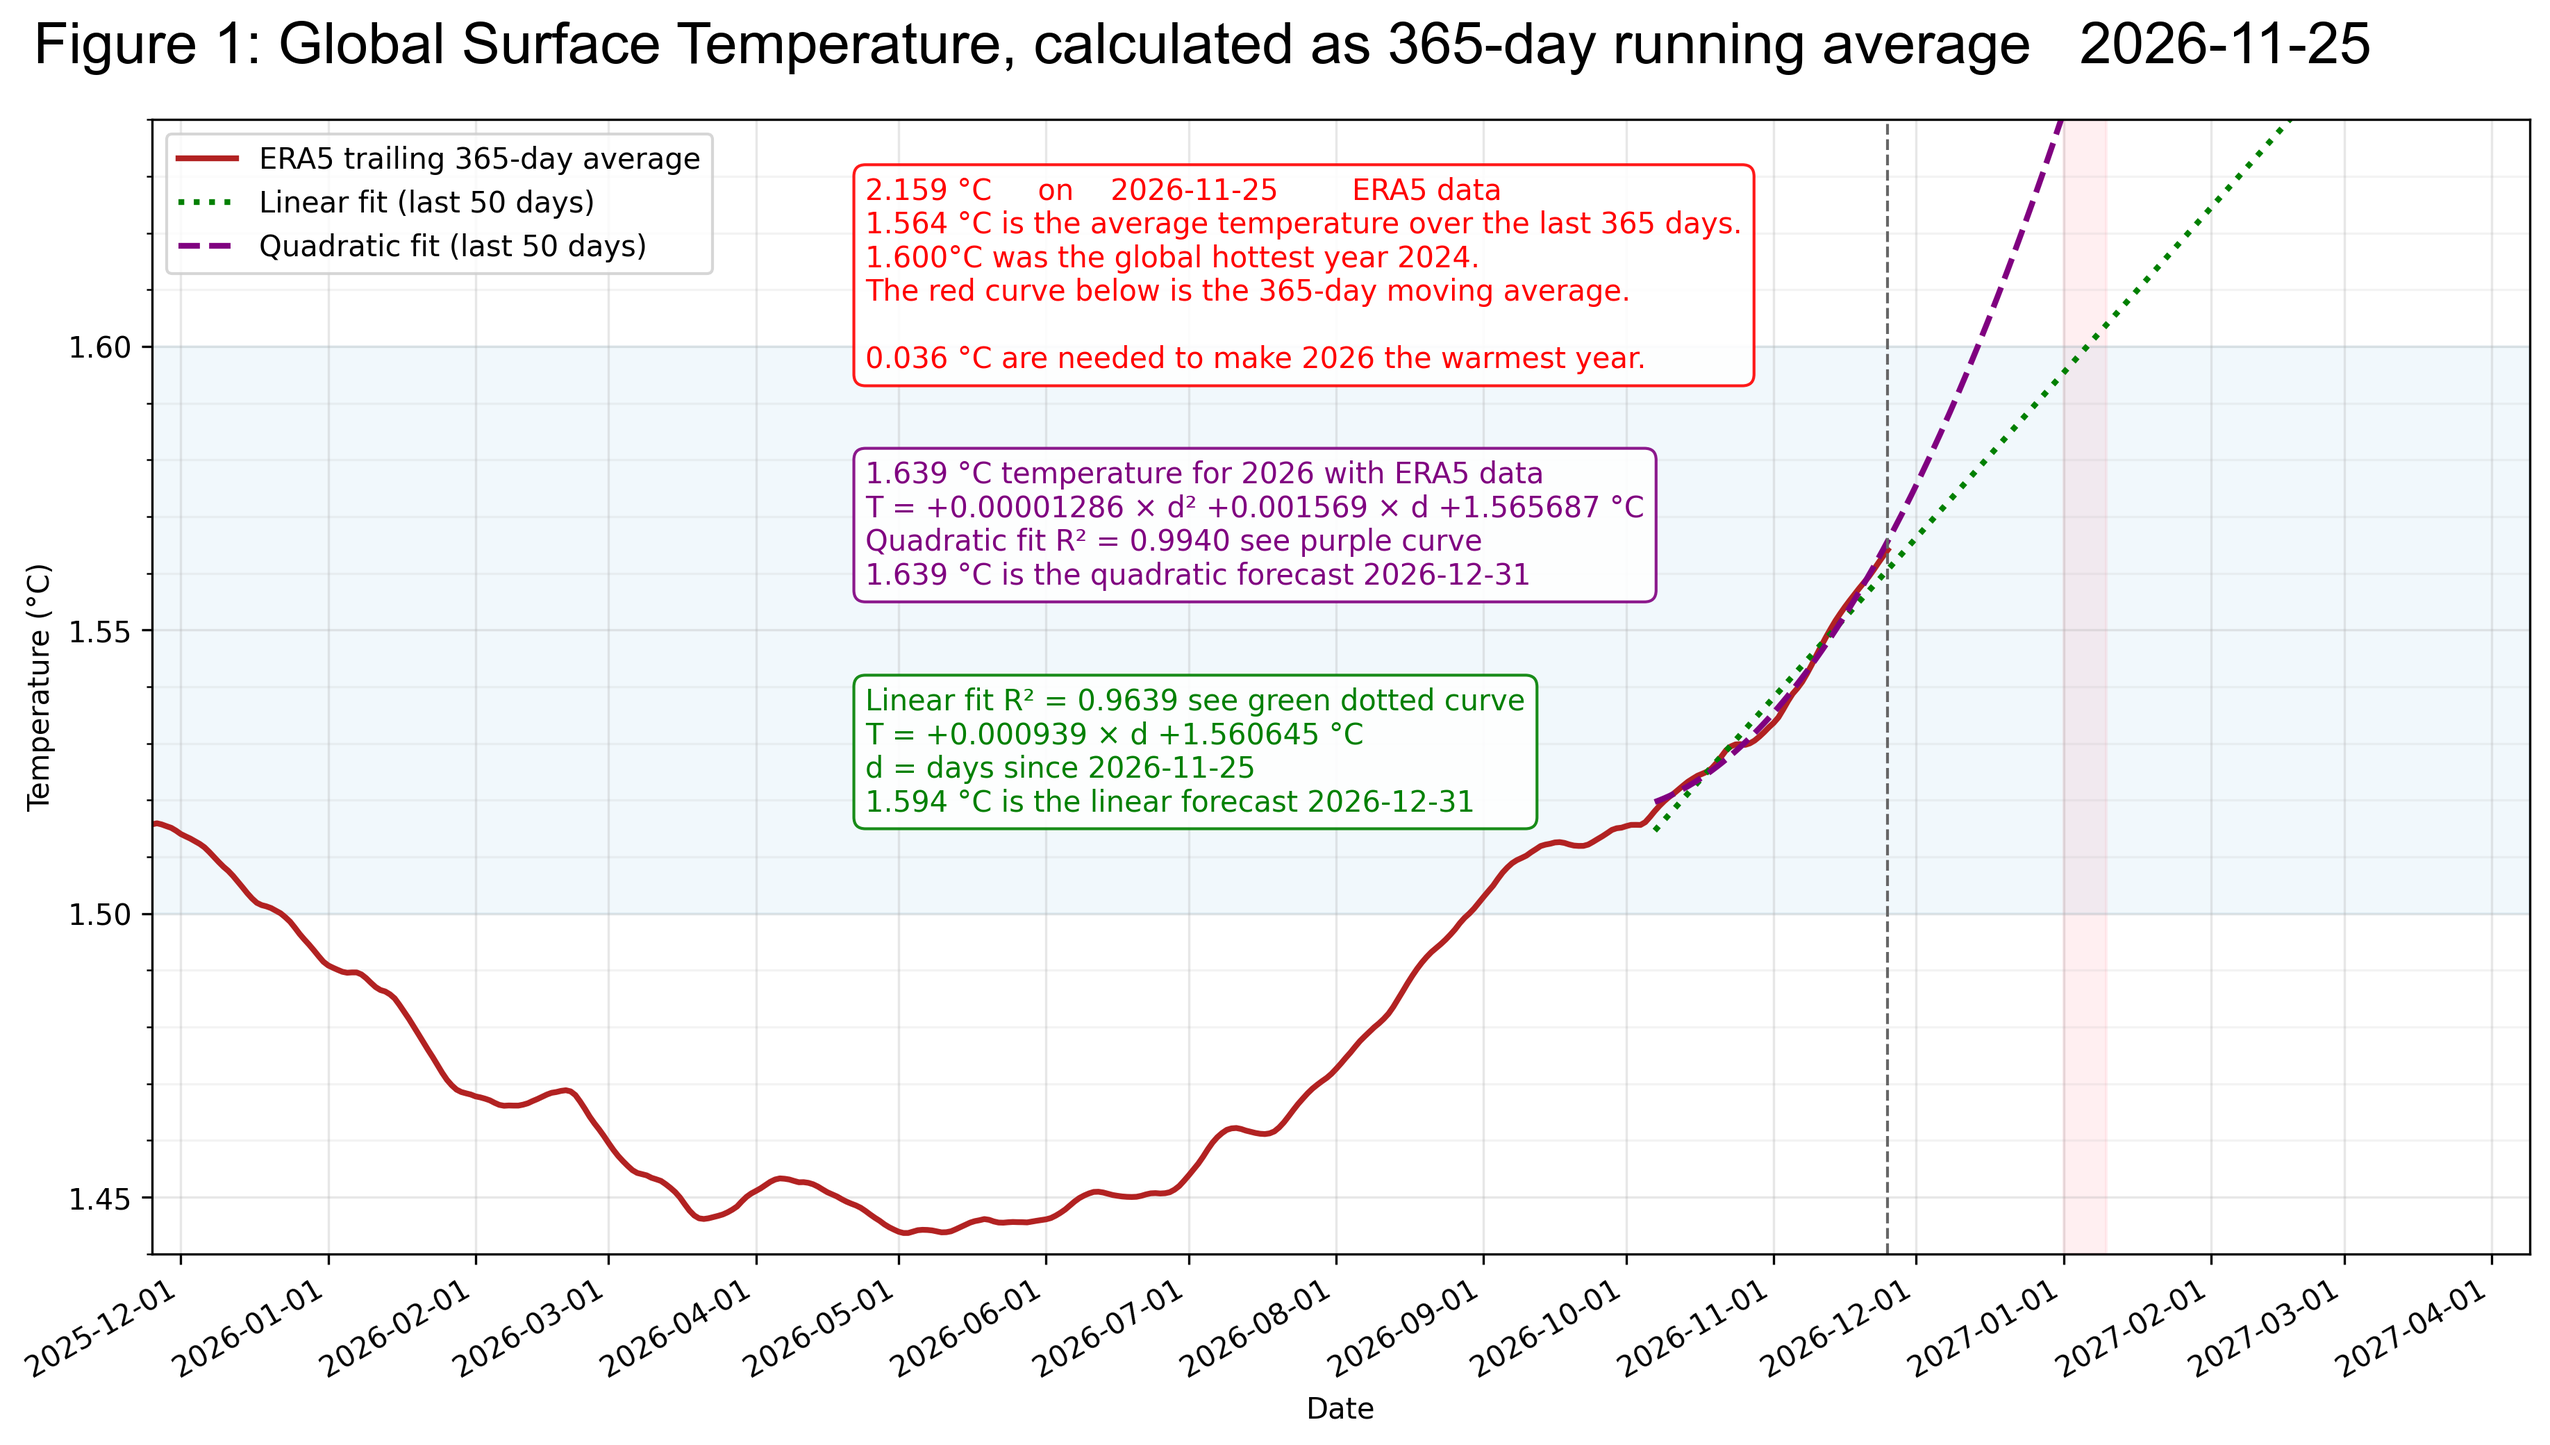
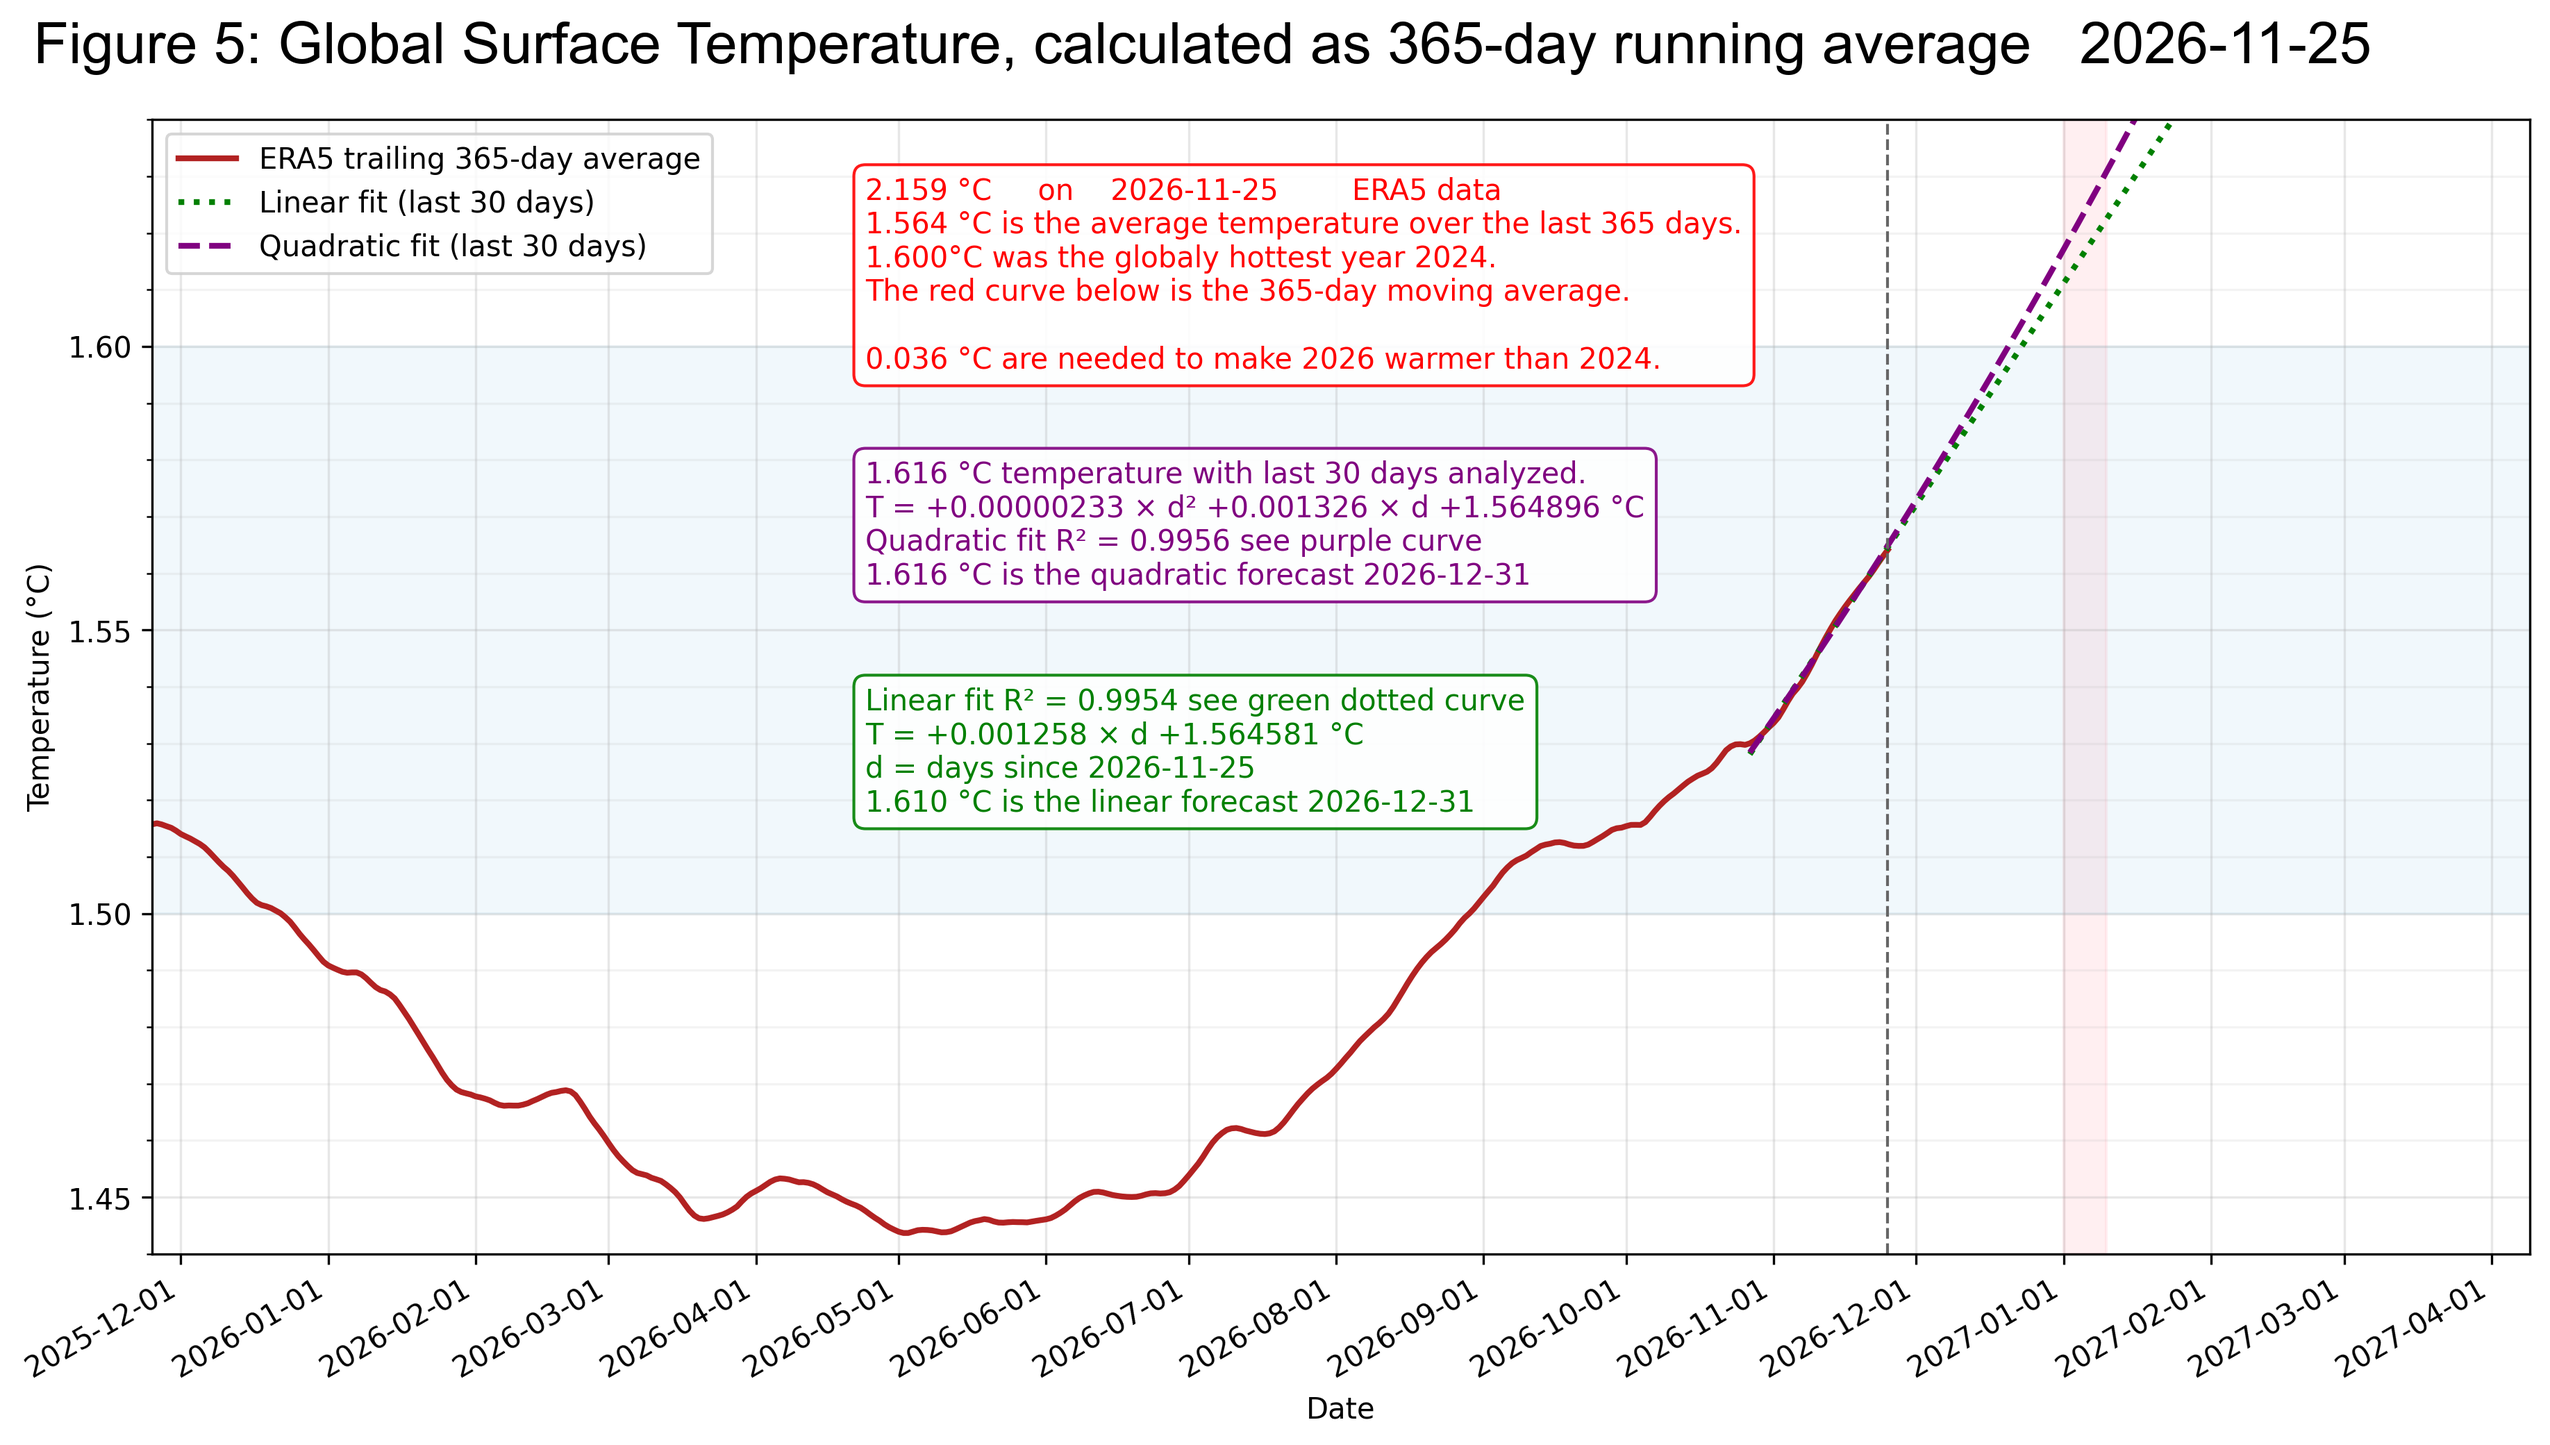
5P25" #ok  Average temperature of the last 1 day : 2.159 °C    1.259000 + 0.9 =  2.159000

diff --git a/temp.py b/temp.py
@@ -62,7 +62,7 @@ def convert_ceres_to_csv(input_file, output_file):
 ###########################################################################
 # figure504 = 4 # 1=create ERA5 trailing 365-day temperature figure
 # figure504_days_linear_fit = 50 # use 30 days for quadratic fit
-#
+#     figure504_days_linear_fit = 30
 # figure4_9 = 5 # write figure 9 and use the 48 month averaging
 ###########################################################################
 def fig_504_era5_temp_last_365_days():
@@ -266,12 +266,12 @@ def fig_504_era5_temp_last_365_days():
         f"{latest_365_day_average:.3f} °C is the average temperature "
         f"over the last 365 days."
         f"\n"
-        f"1.600°C was the global hottest year 2024. "
+        f"1.600°C was the globaly hottest year 2024. "
         f"\n"
         f"The red curve below is the 365-day moving average."
         f"\n"
         f"\n"
-        f"{temp_diff:.3f} °C are needed to make 2026 the warmest year."
+        f"{temp_diff:.3f} °C are needed to make 2026 warmer than 2024."
         #f"\n"
     )
     # 505.114 red box for overview
@@ -321,9 +321,10 @@ def fig_504_era5_temp_last_365_days():
     )
 
     ##########################################
-    # 505.130 purple box for quadratic_formula
+    # 505.130 purple box for quadratic_formula figure504_days_linear_fit = 30
     quadratic_formula = (
-        f"{temp504_2027_quadratic:.3f} °C temperature for 2026 with ERA5 data"
+        # f"{temp504_2027_quadratic:.3f} °C temperature for 2026 with ERA5 data"
+        f"{temp504_2027_quadratic:.3f} °C temperature with last {figure504_days_linear_fit} days analyzed."
         f"\n"
         # f"d = days since {latest_era5_date:%Y-%m-%d}\n"
         f"T = {quadratic_coefficients[0]:+.8f} × d² "

diff --git a/config.py b/config.py
@@ -22,10 +22,10 @@ figure303 = 0 # 3 , 4
 figure404 = 0 # 3 , 12, 24, 36 , 48 60 72 96   409 48=create quadratic-fit figure for matching play_61_EEI
 
 figure504 = 5 # 1=create ERA5 trailing 365-day temperature figure
-figure504_days_linear_fit = 50 # use 30 days for quadratic fit
+figure504_days_linear_fit = 30 # use 30 days for quadratic fit
 
-figure4_9 = 1 # write figure 9 and use the 48 month averaging
-figure505 = 1461  # 1095 , 1461, 1095, 720, 365, 24  1826 3650  # https://sites.ecmwf.int/data/climatepulse/data/series/era5_daily_series_2t_global.csv
+figure4_9 = 5 # write figure 9 and use the 48 month averaging
+figure505 = 0  # 1095 , 1461, 1095, 720, 365, 24  1826 3650  # https://sites.ecmwf.int/data/climatepulse/data/series/era5_daily_series_2t_global.csv
 figure505_offset = 0.90 # 0.91 ClimateCasino 0.90 Zeke, Rahmstorf..Niko Freudsheim apply its 0.88 °C offset.
 figure505_days_linear_fit = 720 # 10 years 3652, 1461, 1095, 720, 365,   1826
 

diff --git a/main.py b/main.py
@@ -1,5 +1,5 @@
 # main.py
-v = "5P23" #ok  Average temperature of the last 1 day : 2.159 °C    1.259000 + 0.9 =  2.159000
+v = "5P25" #ok  Average temperature of the last 1 day : 2.159 °C    1.259000 + 0.9 =  2.159000
 #
 # https://github.com/Boettcher1960/5_CO2_EEI_T
 # ocean stratification https://bsky.app/profile/thomas-boettcher.bsky.social/post/3mj7zx7fzsc26
